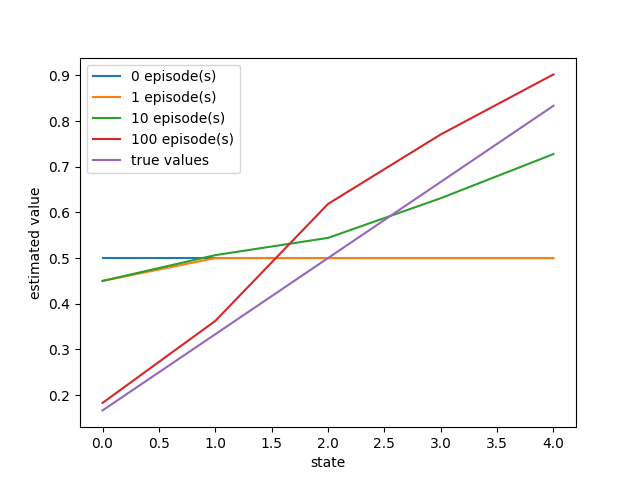
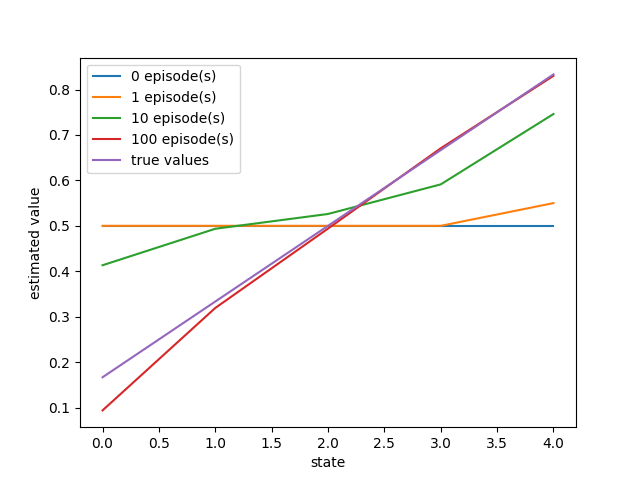
add batch method to random walk

diff --git a/CH06/random_walk.py b/CH06/random_walk.py
@@ -2,6 +2,7 @@
 
 import numpy as np
 import matplotlib.pyplot as plt
+from tqdm import trange, tqdm
 
 
 class RandomWalk:
@@ -26,7 +27,7 @@ class RandomWalk:
         self.position = 3
         self.reached_terminal = False
         self.action = 0
-        self.value_difference = [0] * self.number_of_states
+        self.small_threshold = 1e-3
 
     def reset_episode(self):
         """Reset class for a new episode"""
@@ -41,15 +42,12 @@ class RandomWalk:
     def position_to_state(self):
         return self.positions.index(self.position)
 
-    def find_value_difference(self):
-        for i in range(self.number_of_states):
-            self.value_difference[i] = self.state_values[i] - self.true_values[i]
-
     def rms_error(self):
         """Find the total error of mid five state values compared with true values"""
         error = 0
         for i in range(1, self.number_of_states - 1):
-            error += abs(self.state_values[i] - self.true_values[i])
+            error += np.square(self.state_values[i] - self.true_values[i])
+        error = np.sqrt(error / (self.number_of_states - 2))
         return error
 
     def step(self):
@@ -107,9 +105,7 @@ class RandomWalk:
                     self.state_values[state] += step_size * (reward + self.discount * self.state_values[new_state] -
                                                              self.state_values[state])
                     state = new_state
-
-            self.find_value_difference()
-            error.append(np.sqrt(np.sum(np.power(self.value_difference[1:5], 2)) / (self.number_of_states - 2)))
+            error.append(self.rms_error())
 
         if not rms_error:
             return self.state_values[1:6]
@@ -127,8 +123,70 @@ class RandomWalk:
                 state = states[i]
                 returns = self.discount * returns + rewards[i]
                 self.state_values[state] += step_size * (returns - self.state_values[state])
-            self.find_value_difference()
-            error.append(np.sqrt(np.sum(np.power(self.value_difference[1:5], 2)) / (self.number_of_states - 2)))
+            error.append(self.rms_error())
+
+        if not rms_error:
+            return self.state_values[1:6]
+        else:
+            return error
+
+    def td_batch(self, episodes, step_size=0.001, rms_error=False):
+        """Estimate values with TD(batch), return values or RMS error"""
+        error = []
+        self.reset_state_values()
+        states = []
+        rewards = []
+        for _ in range(episodes):
+            self.reset_episode()
+            curr_states, curr_rewards, _ = self.random_walk()
+            states.append(curr_states)
+            rewards.append(curr_rewards)
+            while True:
+                update = [0] * self.number_of_states
+                for i in range(len(states)):
+                    for j in range(len(states[i])):
+                        state = states[i][j]
+                        reward = rewards[i][j]
+                        if j == len(states[i]) - 1:
+                            new_state_value = 0
+                        else:
+                            new_state = states[i][j + 1]
+                            new_state_value = self.state_values[new_state]
+                        update[state] += step_size * (reward + self.discount * new_state_value - self.state_values[state])
+                for i in range(self.number_of_states):
+                    self.state_values[i] += update[i]
+                if np.sum(np.abs(update)) < self.small_threshold:
+                    break
+            error.append(self.rms_error())
+
+        if not rms_error:
+            return self.state_values[1:6]
+        else:
+            return error
+
+    def mc_batch(self, episodes, step_size=0.001, rms_error=False):
+        """Estimate values with MC batch, return state values or RMS error"""
+        error = []
+        self.reset_state_values()
+        states = []
+        rewards = []
+        for _ in range(episodes):
+            curr_states, curr_rewards, _ = self.random_walk()
+            states.append(curr_states)
+            rewards.append(curr_rewards)
+            while True:
+                update = [0] * self.number_of_states
+                for i in range(len(states)):
+                    returns = 0
+                    for j in range(len(states[i]) - 1, -1, -1):
+                        state = states[i][j]
+                        returns = self.discount * returns + rewards[i][j]
+                        update[state] += step_size * (returns - self.state_values[state])
+                for i in range(self.number_of_states):
+                    self.state_values[i] += update[i]
+                if np.sum(np.abs(update)) < self.small_threshold:
+                    break
+            error.append(self.rms_error())
 
         if not rms_error:
             return self.state_values[1:6]
@@ -138,15 +196,14 @@ class RandomWalk:
     def figure_6_2_1(self, method='TD'):
         """Plot the result of value prediction"""
         episodes = [0, 1, 10, 100]
+        repeat = 1000
         plt.figure()
         for episode in episodes:
+            values = 0
             if method == 'TD':
                 values = self.tabular_td_0(episode)
-            elif method == 'MC':
-                values = self.constant_step_size_mc(episode)
             else:
-                print(f'Cannot identify method "{method}".')
-                exit()
+                values = self.constant_step_size_mc(episode)
             plt.plot(values, label=str(episode) + ' episode(s)')
         plt.plot(self.true_values[1:6], label='true values')
         plt.xlabel('state')
@@ -161,13 +218,21 @@ class RandomWalk:
         td_step_size = [0.15, 0.1, 0.05]
         mc_step_size = [0.01, 0.02, 0.03, 0.04]
         episodes = 100
+        repeat = 100
+
         plt.figure()
-        for step_size in td_step_size:
-            plt.plot(self.tabular_td_0(episodes, step_size=step_size, rms_error=True),
-                     linestyle='solid', label='TD, alpha = %.02f' % step_size)
-        for step_size in mc_step_size:
-            plt.plot(self.constant_step_size_mc(episodes, step_size=step_size, rms_error=True),
-                     linestyle='dashdot', label='MC, alpha = %.02f' % step_size)
+        for step_size in tqdm(td_step_size):
+            error_td = 0
+            for i in range(repeat):
+                error_td += (np.array(self.tabular_td_0(episodes, step_size=step_size, rms_error=True)) - error_td) /\
+                            (i + 1)
+            plt.plot(error_td, linestyle='solid', label='TD, alpha = %.02f' % step_size)
+        for step_size in tqdm(mc_step_size):
+            error_mc = 0
+            for i in range(repeat):
+                error_mc += (np.array(self.constant_step_size_mc(episodes, step_size=step_size, rms_error=True))
+                             - error_mc) / (i + 1)
+            plt.plot(error_mc, linestyle='solid', label='MC, alpha = %.02f' % step_size)
         plt.xlabel('episodes')
         plt.ylabel('RMS')
         plt.legend()
@@ -175,10 +240,30 @@ class RandomWalk:
         plt.savefig('images/random_walk_2')
         plt.close()
 
+    def figure_batch(self):
+        """Compare batch training of TD and MC"""
+        episodes = 100
+        repeat = 1000
+
+        td_error = 0
+        mc_error = 0
+        for i in trange(repeat):
+            td_error += (np.array(self.td_batch(episodes, rms_error=True)) - td_error) / (i + 1)
+            mc_error += (np.array(self.mc_batch(episodes, rms_error=True)) - mc_error) / (i + 1)
+
+        plt.plot(td_error, label='TD')
+        plt.plot(mc_error, label='MC')
+        plt.xlabel('episodes')
+        plt.ylabel('RMS error')
+        plt.legend()
+
+        plt.savefig('images/random_walk_batch.png')
+        plt.close()
+
 
 if __name__ == '__main__':
     system = RandomWalk()
-    system.figure_6_2_1()
-    system.figure_6_2_2()
-
+    # system.figure_6_2_1()
+    # system.figure_6_2_2()
+    system.figure_batch()
 
